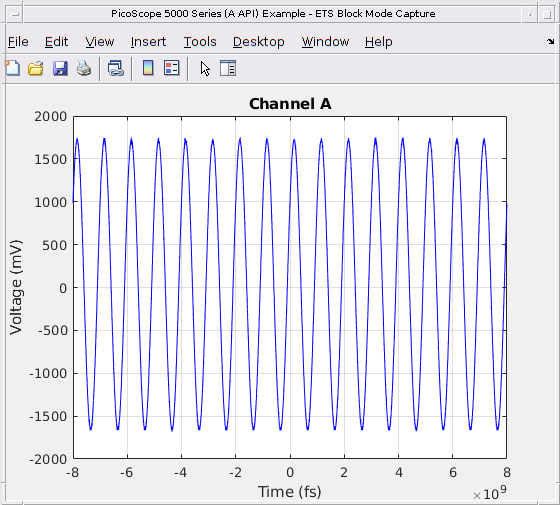
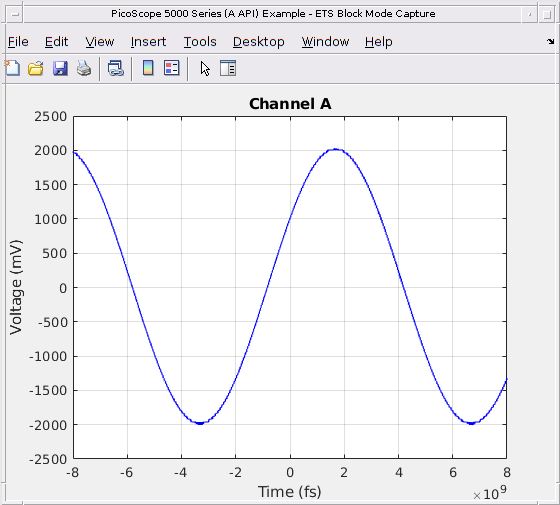
Republish ETS example

diff --git a/help/html/PS5000A_ID_Block_ETS_Example.html b/help/html/PS5000A_ID_Block_ETS_Example.html
@@ -66,7 +66,7 @@ table td { padding:7px 5px; text-align:left; vertical-align:top; border:1px soli
 
 
 
-  </style></head><body><div class="content"><h1>PicoScope 5000 Series (A API) Instrument Driver Oscilloscope ETS Block Data Capture Example</h1><!--introduction--><p>This is an example of an instrument control session using a device object. The instrument control session comprises all the steps you are likely to take when communicating with your instrument.</p><p>These steps are:</p><div><ol><li>Create a device object</li><li>Connect to the instrument</li><li>Configure properties</li><li>Invoke functions</li><li>Disconnect from the instrument</li></ol></div><p>To run the instrument control session, type the name of the file, PS5000A_ID_Block_ETS_Example, at the MATLAB command prompt.</p><p>The file, PS5000A_ID_BLOCK_ETS_EXAMPLE.M must be on your MATLAB PATH. For additional information on setting your MATLAB PATH, type 'help addpath' at the MATLAB command prompt.</p><p><b>Example:</b>     PS5000A_ID_Block_ETS_Example;</p><p><b>Description:</b>     Demonstrates how to set properties and call functions in order to     capture a block of data using Equivalent Time Sampling from a     PicoScope 5000 Series Oscilloscope using the underlying 'A' API     library functions.</p><p><b>See also:</b> <a href="matlab:doc('icdevice')"><tt>icdevice</tt></a> | <a href="matlab:doc('instrument/invoke')"><tt>invoke</tt></a></p><p><b>Copyright:</b> &copy; 2013-2018 Pico Technology Ltd. See LICENSE file for terms.</p><!--/introduction--><h2>Contents</h2><div><ul><li><a href="#1">Suggested input test signal</a></li><li><a href="#2">Clear command window and close any figures</a></li><li><a href="#3">Load configuration information</a></li><li><a href="#4">Device connection</a></li><li><a href="#5">Set channels</a></li><li><a href="#7">Set ETS mode parameters</a></li><li><a href="#8">Verify timebase index and maximum number of samples</a></li><li><a href="#9">Set simple trigger</a></li><li><a href="#11">Set block parameters and capture data</a></li><li><a href="#13">Process data</a></li><li><a href="#14">Stop the device</a></li><li><a href="#15">Turn off ETS mode</a></li><li><a href="#16">Disconnect device</a></li></ul></div><h2 id="1">Suggested input test signal</h2><p>This example was published using the following test signals:</p><div><ul><li>Channel A: 4 Vpp, 1 MHz sine wave</li></ul></div><h2 id="2">Clear command window and close any figures</h2><pre class="codeinput">clc;
+  </style></head><body><div class="content"><h1>PicoScope 5000 Series (A API) Instrument Driver Oscilloscope ETS Block Data Capture Example</h1><!--introduction--><p>This is an example of an instrument control session using a device object. The instrument control session comprises all the steps you are likely to take when communicating with your instrument.</p><p>These steps are:</p><div><ol><li>Create a device object</li><li>Connect to the instrument</li><li>Configure properties</li><li>Invoke functions</li><li>Disconnect from the instrument</li></ol></div><p>To run the instrument control session, type the name of the file, PS5000A_ID_Block_ETS_Example, at the MATLAB command prompt.</p><p>The file, PS5000A_ID_BLOCK_ETS_EXAMPLE.M must be on your MATLAB PATH. For additional information on setting your MATLAB PATH, type 'help addpath' at the MATLAB command prompt.</p><p><b>Example:</b>     PS5000A_ID_Block_ETS_Example;</p><p><b>Description:</b>     Demonstrates how to set properties and call functions in order to     capture a block of data using Equivalent Time Sampling from a     PicoScope 5000 Series Oscilloscope using the underlying 'A' API     library functions.</p><p><b>See also:</b> <a href="matlab:doc('icdevice')"><tt>icdevice</tt></a> | <a href="matlab:doc('instrument/invoke')"><tt>invoke</tt></a></p><p><b>Copyright:</b> &copy; 2013-2018 Pico Technology Ltd. See LICENSE file for terms.</p><!--/introduction--><h2>Contents</h2><div><ul><li><a href="#1">Suggested input test signal</a></li><li><a href="#2">Clear command window and close any figures</a></li><li><a href="#3">Load configuration information</a></li><li><a href="#4">Device connection</a></li><li><a href="#5">Set channels</a></li><li><a href="#7">Set ETS mode parameters</a></li><li><a href="#8">Verify timebase index and maximum number of samples</a></li><li><a href="#9">Set simple trigger</a></li><li><a href="#11">Set block parameters and capture data</a></li><li><a href="#13">Process data</a></li><li><a href="#14">Stop the device</a></li><li><a href="#15">Turn off ETS mode</a></li><li><a href="#16">Disconnect device</a></li></ul></div><h2 id="1">Suggested input test signal</h2><p>This example was published using the following test signals:</p><div><ul><li>Channel A: 4 Vpp, 100 kHz MHz sine wave</li></ul></div><h2 id="2">Clear command window and close any figures</h2><pre class="codeinput">clc;
 close <span class="string">all</span>;
 </pre><h2 id="3">Load configuration information</h2><pre class="codeinput">PS5000aConfig;
 </pre><h2 id="4">Device connection</h2><pre class="codeinput"><span class="comment">% Check if an Instrument session using the device object |ps5000aDeviceObj|</span>
@@ -357,7 +357,7 @@ Libraries unloaded successfully.
 %% Suggested input test signal
 % This example was published using the following test signals:
 %
-% * Channel A: 4 Vpp, 1 MHz sine wave
+% * Channel A: 4 Vpp, 100 kHz MHz sine wave
 
 %% Clear command window and close any figures
 

diff --git a/examples/PS5000A_ID_Block_ETS_Example.m b/examples/PS5000A_ID_Block_ETS_Example.m
@@ -35,7 +35,7 @@
 %% Suggested input test signal
 % This example was published using the following test signals:
 %
-% * Channel A: 4 Vpp, 1 MHz sine wave
+% * Channel A: 4 Vpp, 100 kHz MHz sine wave
 
 %% Clear command window and close any figures
 
